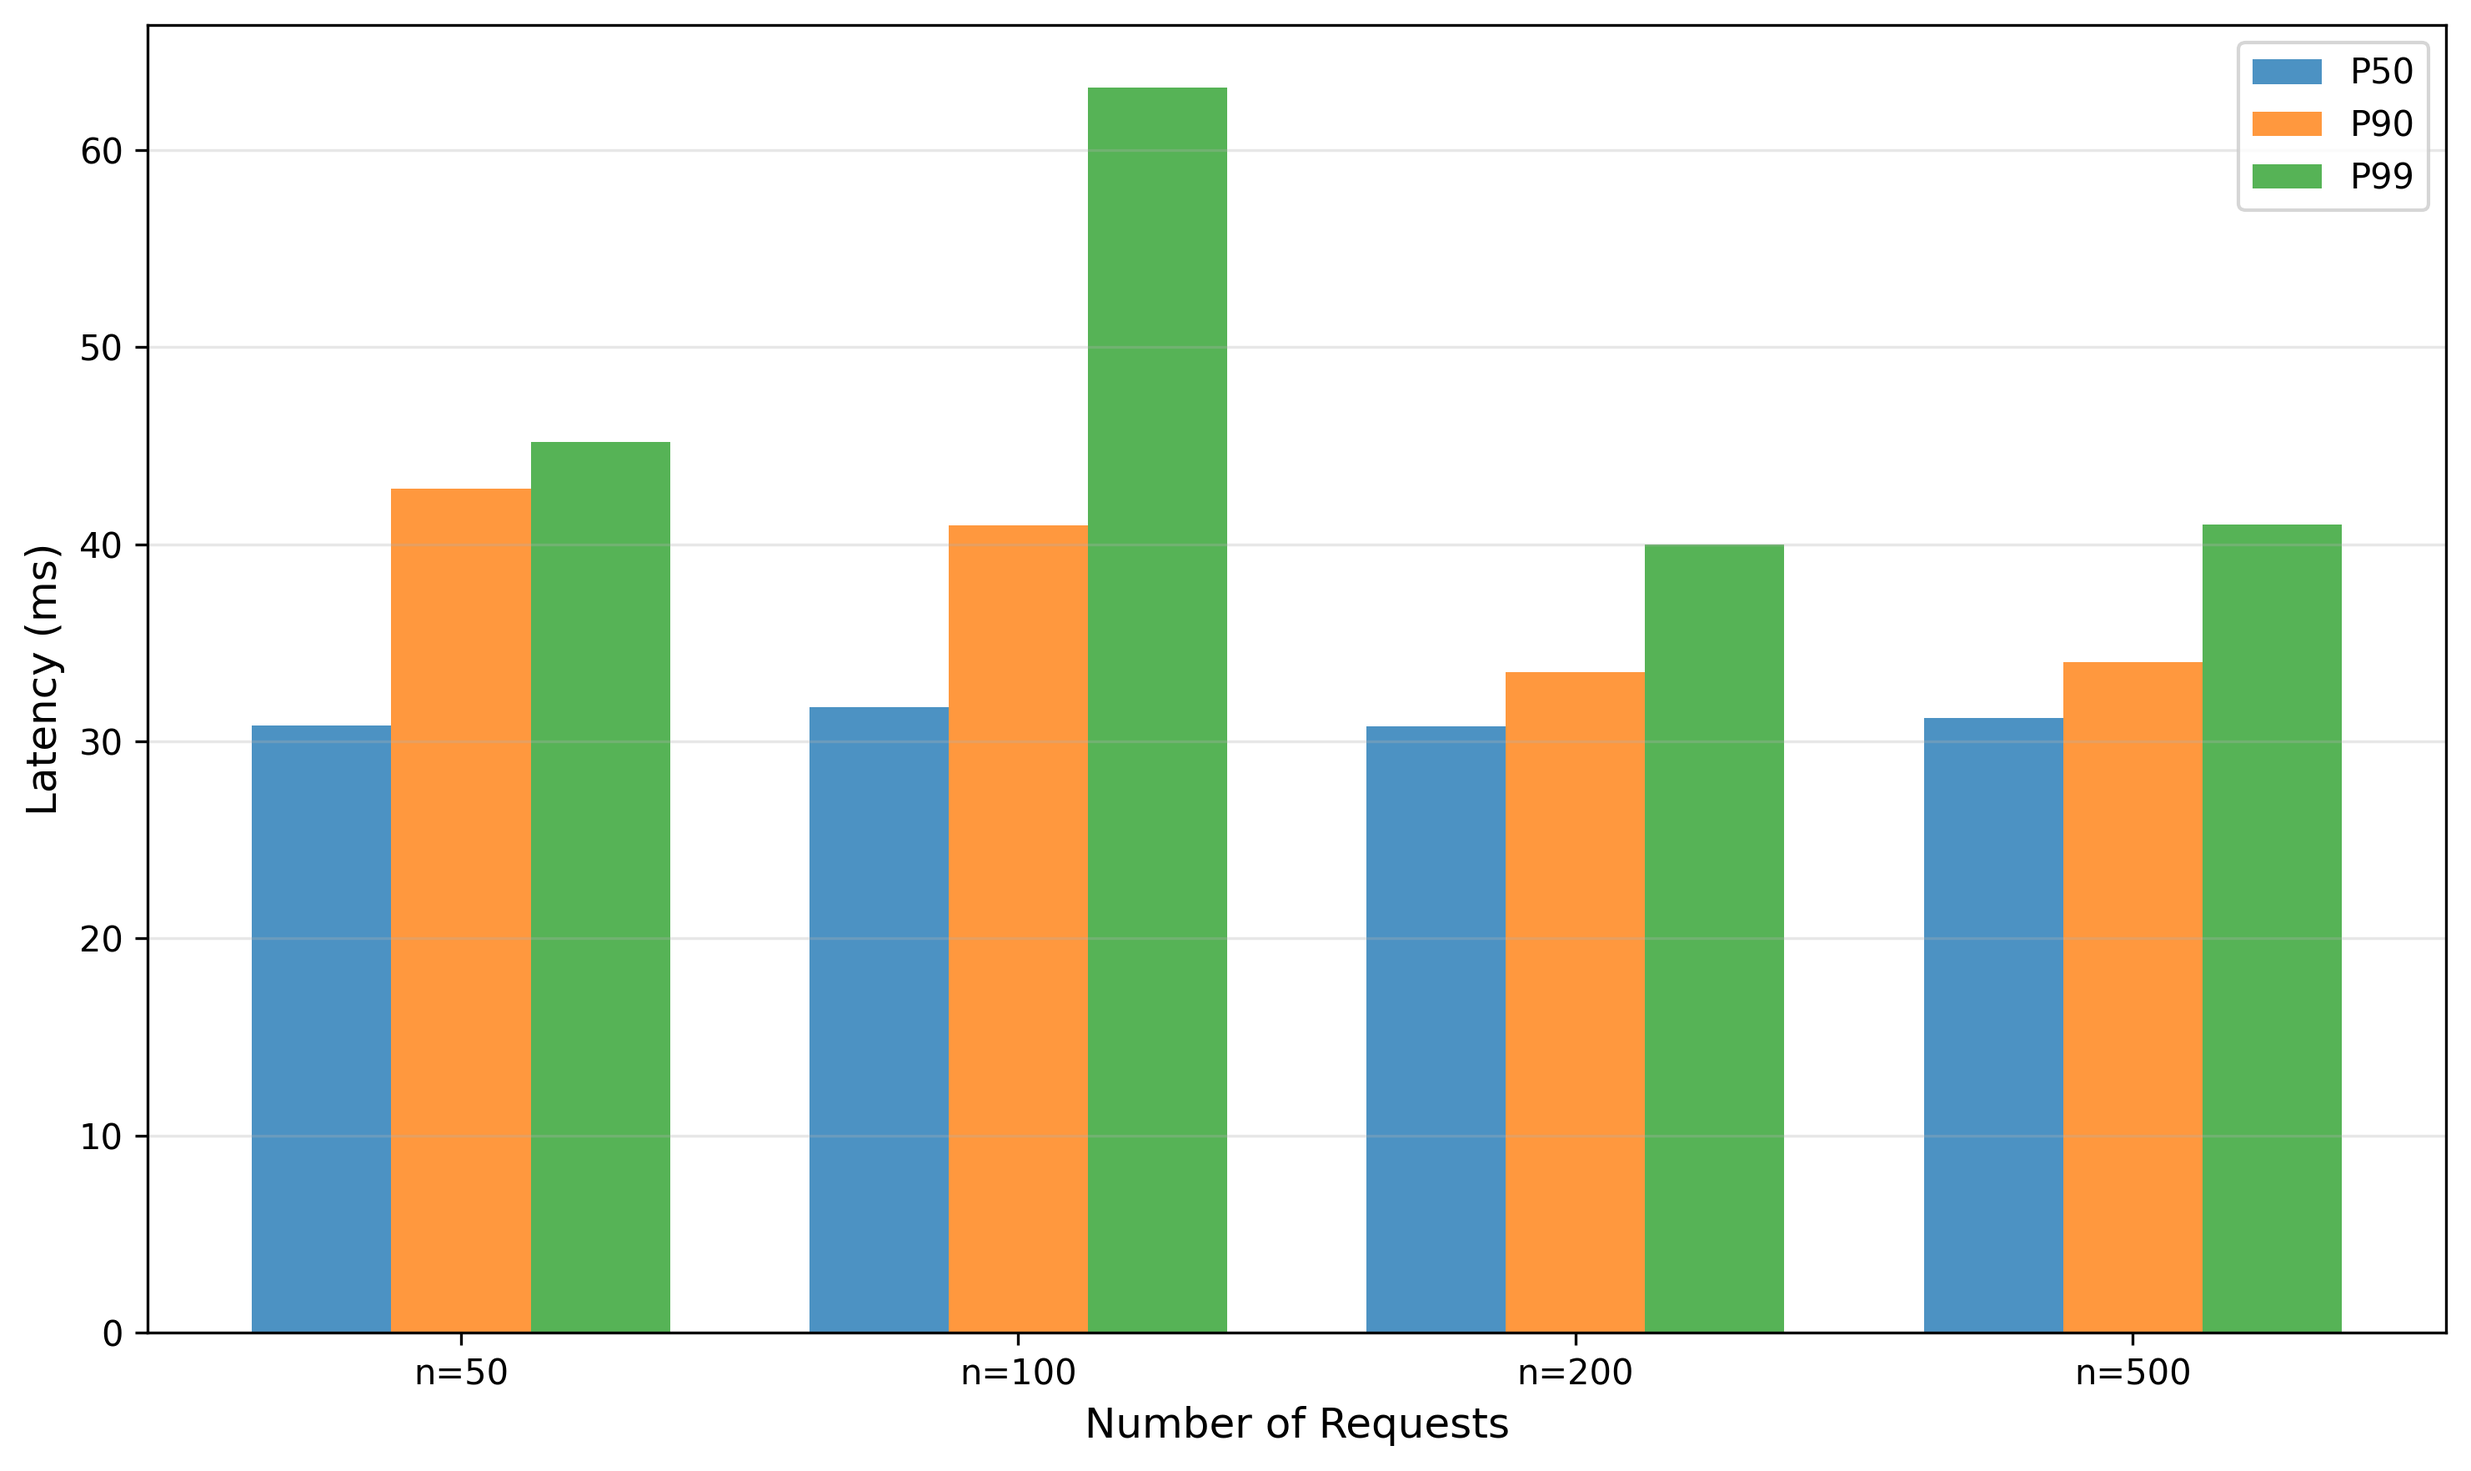
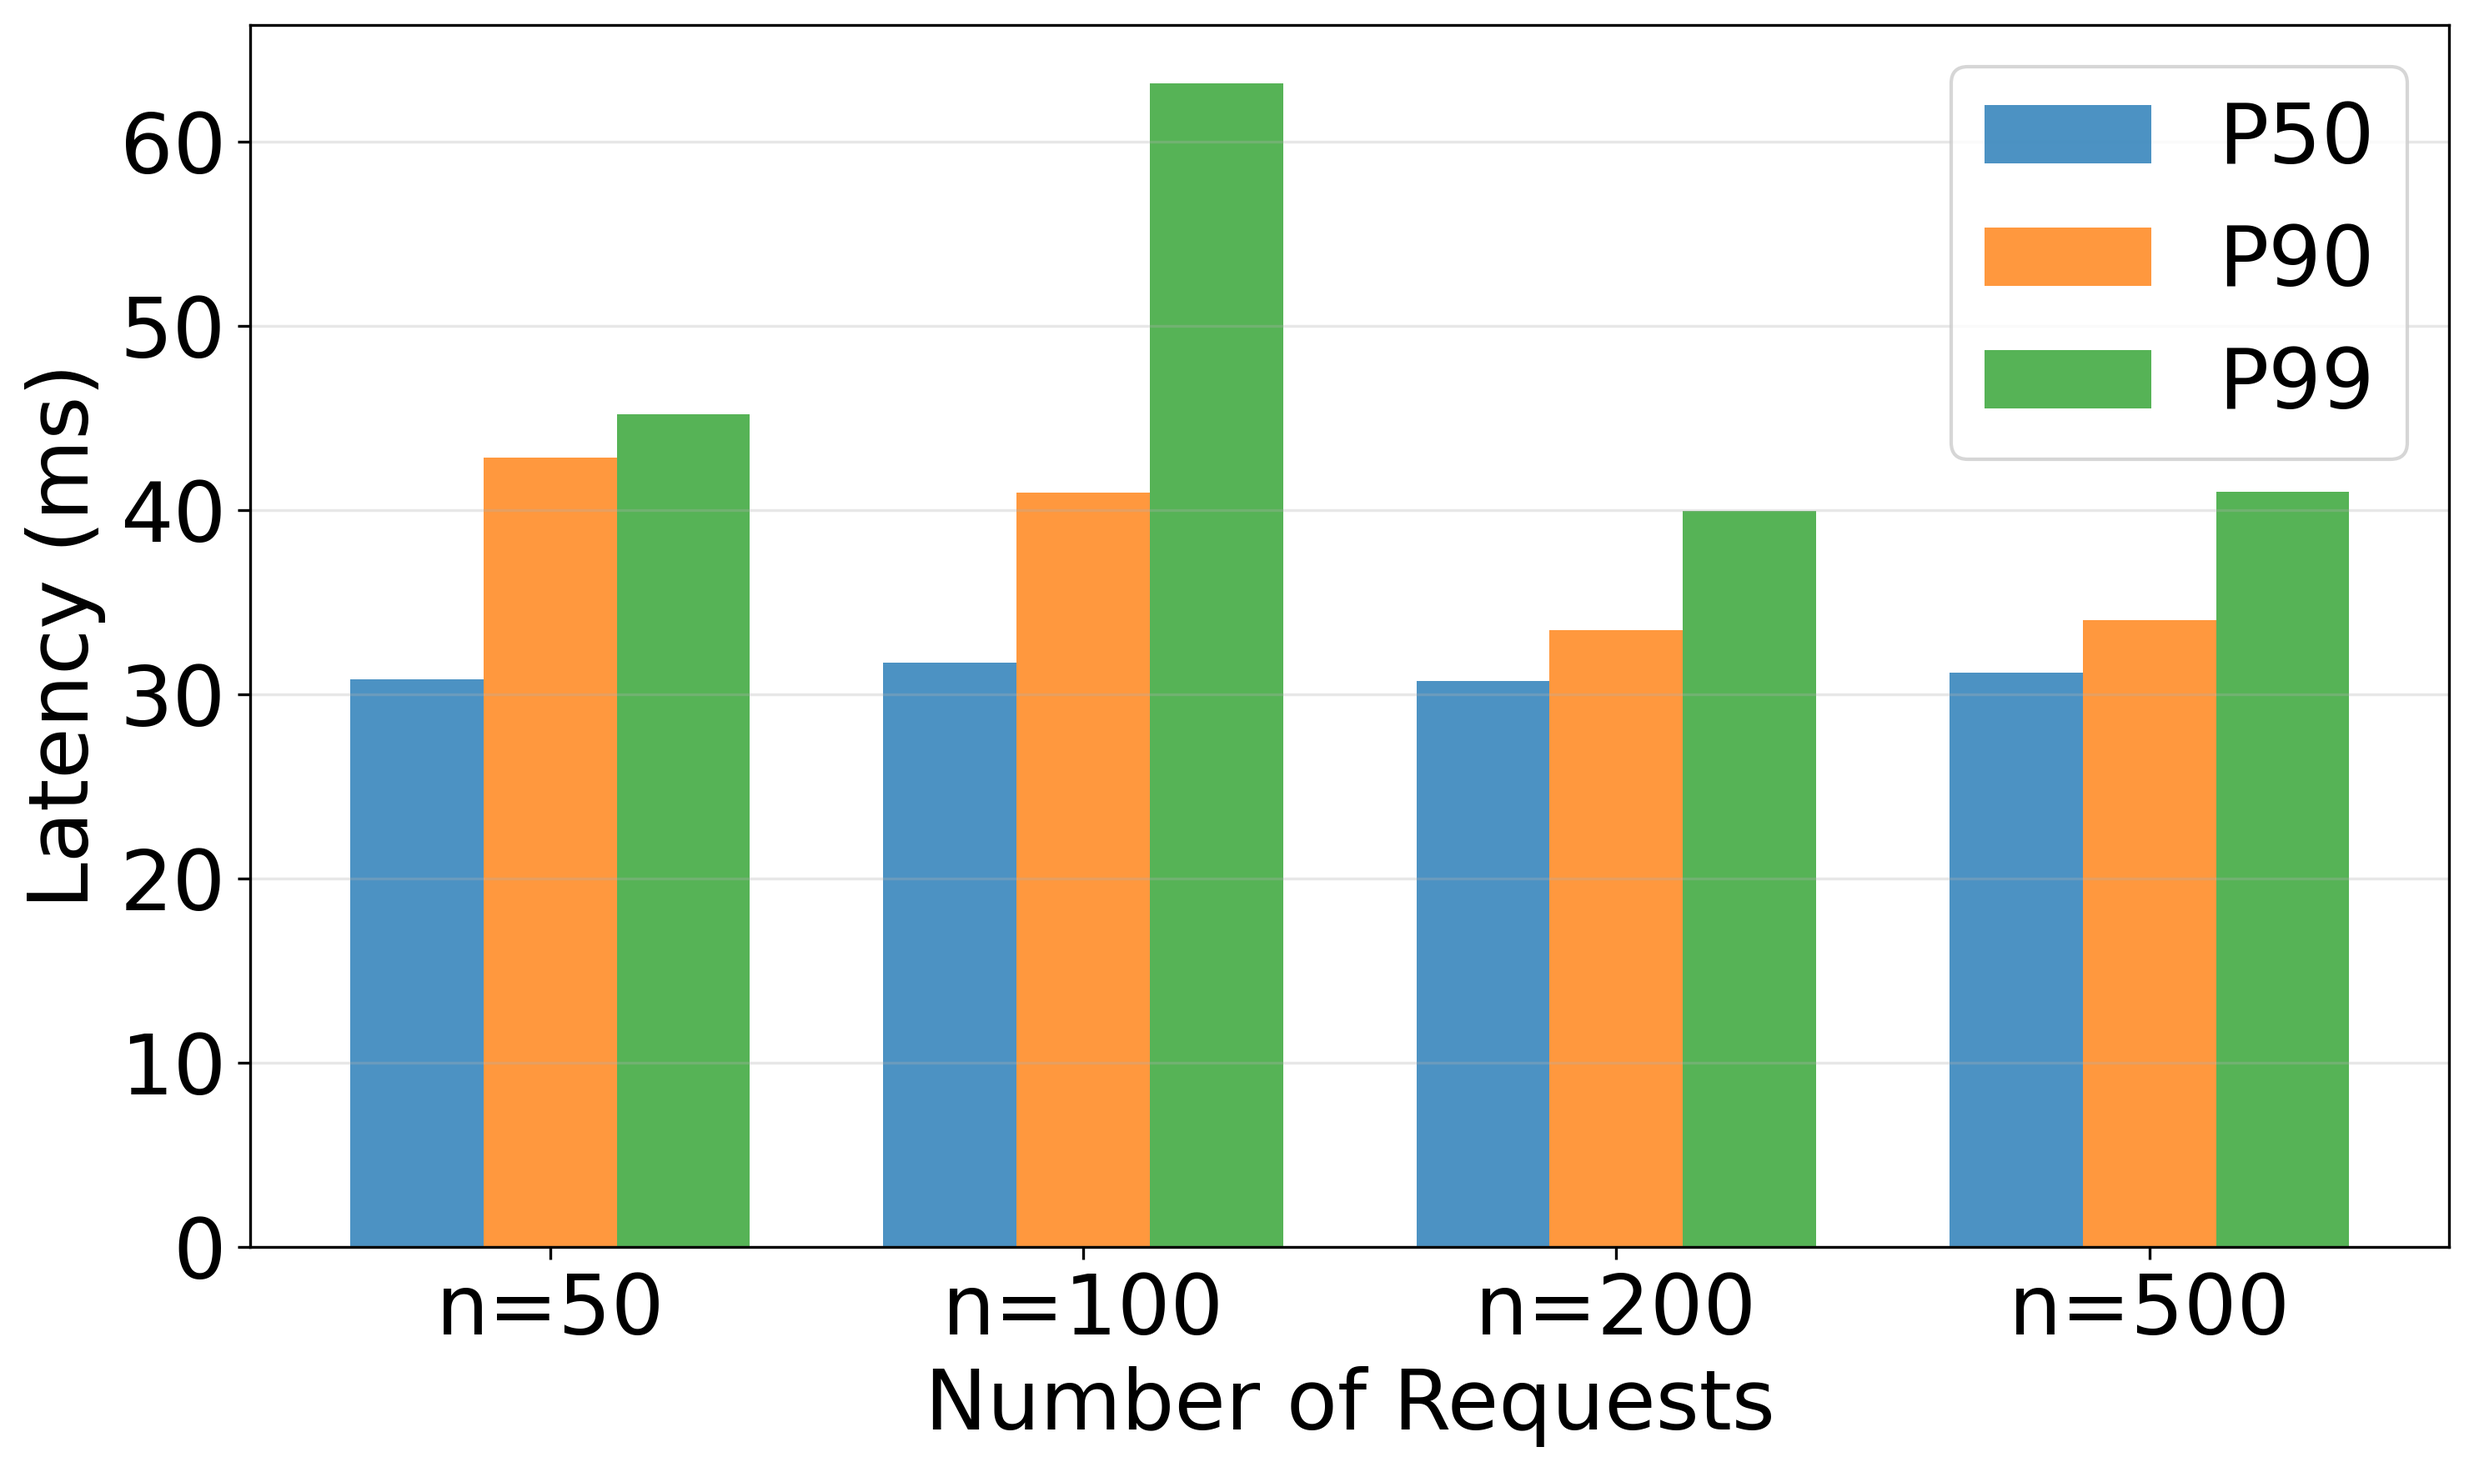
feat: enhance latency bar chart aesthetics with larger labels and improved legend

diff --git a/claimguard-peg/analyze_results.py b/claimguard-peg/analyze_results.py
@@ -98,12 +98,13 @@ def plot_latency_bar_chart():
     bars2 = ax.bar(x, df_lat["P90"], width, label="P90", alpha=0.8)
     bars3 = ax.bar(x + width, df_lat["P99"], width, label="P99", alpha=0.8)
 
-    ax.set_xlabel("Number of Requests", fontsize=12)
-    ax.set_ylabel("Latency (ms)", fontsize=12)
+    ax.set_xlabel("Number of Requests", fontsize=24)
+    ax.set_ylabel("Latency (ms)", fontsize=24)
     # ax.set_title("PureChain ABAC Latency Distribution", fontsize=14)
     ax.set_xticks(x)
-    ax.set_xticklabels([f"n={n}" for n in df_lat["requests"]])
-    ax.legend()
+    ax.set_xticklabels([f"n={n}" for n in df_lat["requests"]], fontsize=24)
+    ax.tick_params(axis='y', labelsize=24)
+    ax.legend(fontsize=24)
     ax.grid(True, axis='y', alpha=0.3)
 
     plt.tight_layout()
